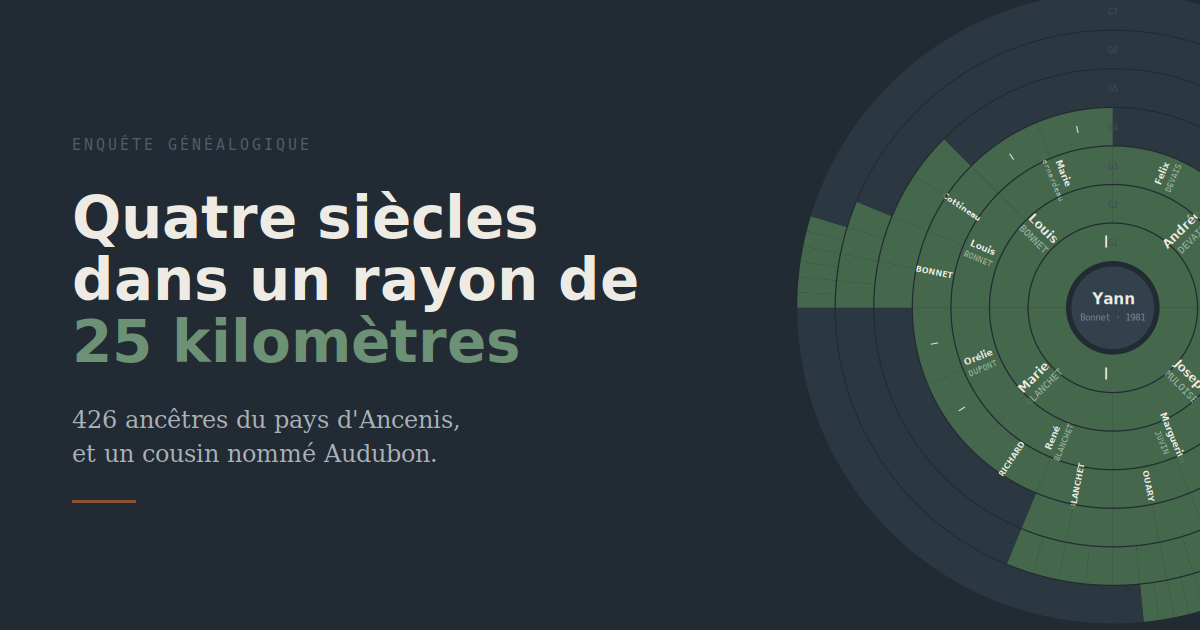
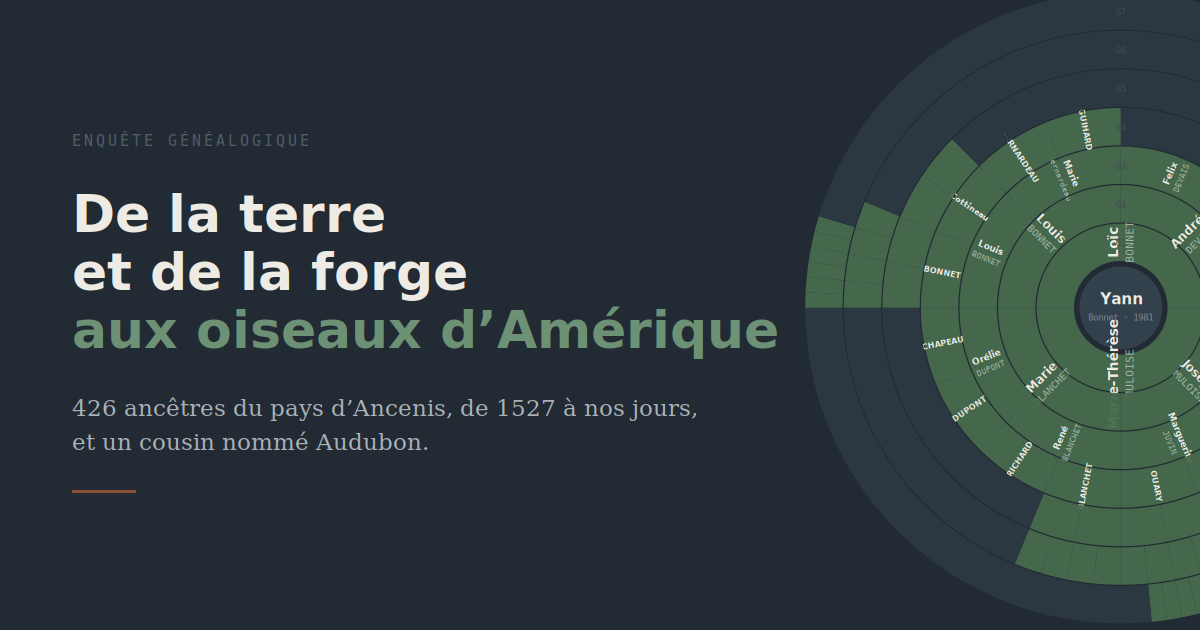
Add files via upload

diff --git a/index.html b/index.html
@@ -3,7 +3,7 @@
 <head>
 <meta charset="utf-8">
 <meta name="viewport" content="width=device-width, initial-scale=1">
-<title>Ouary, Muloise, Bonnet — quatre siècles au nord de la Loire</title>
+<title>De la terre et de la forge aux oiseaux d'Amérique</title>
 <meta name="description" content="Enquête généalogique sur 426 ancêtres du pays d'Ancenis, de 1527 à nos jours, et sur le lien de parenté avec le naturaliste John James Audubon.">
 <!-- Adresse publique du site. A modifier ici si elle change. -->
 <link rel="canonical" href="https://genea.bonnet.bzh/">
@@ -11,14 +11,14 @@
 <meta property="og:locale" content="fr_FR">
 <meta property="og:site_name" content="genea.bonnet.bzh">
 <meta property="og:url" content="https://genea.bonnet.bzh/">
-<meta property="og:title" content="Quatre siècles dans un rayon de vingt-cinq kilomètres">
+<meta property="og:title" content="De la terre et de la forge aux oiseaux d'Amérique">
 <meta property="og:description" content="426 ancêtres du pays d'Ancenis reconstitués de 1527 à nos jours — et, sur une branche latérale, le naturaliste John James Audubon.">
 <meta property="og:image" content="https://genea.bonnet.bzh/og.png">
 <meta property="og:image:width" content="1200">
 <meta property="og:image:height" content="630">
 <meta property="og:image:alt" content="Éventail des ancêtres sur sept générations">
 <meta name="twitter:card" content="summary_large_image">
-<meta name="twitter:title" content="Quatre siècles dans un rayon de vingt-cinq kilomètres">
+<meta name="twitter:title" content="De la terre et de la forge aux oiseaux d'Amérique">
 <meta name="twitter:description" content="426 ancêtres du pays d'Ancenis, et un cousin nommé Audubon.">
 <meta name="twitter:image" content="https://genea.bonnet.bzh/og.png">
 <meta name="theme-color" content="#222b33">
@@ -280,7 +280,7 @@ footer h3{font-family:"Bricolage Grotesque",sans-serif;font-size:15px;color:var(
 <header class="hero">
   <div class="wrap">
     <div class="eyebrow">Enquête généalogique · août 2026</div>
-    <h1>Quatre siècles<br>dans un rayon<br>de <em>vingt-cinq kilomètres</em></h1>
+    <h1>De la terre<br>et de la forge<br>aux <em>oiseaux d'Amérique</em></h1>
     <p class="sous">Quatre cent vingt-six ancêtres d'une même famille du pays d'Ancenis,
     reconstitués de 1527 à nos jours. Presque tous laboureurs, presque tous nés entre
     l'Erdre et la Loire. Et, sur une branche latérale, une fille de laboureur des Touches
